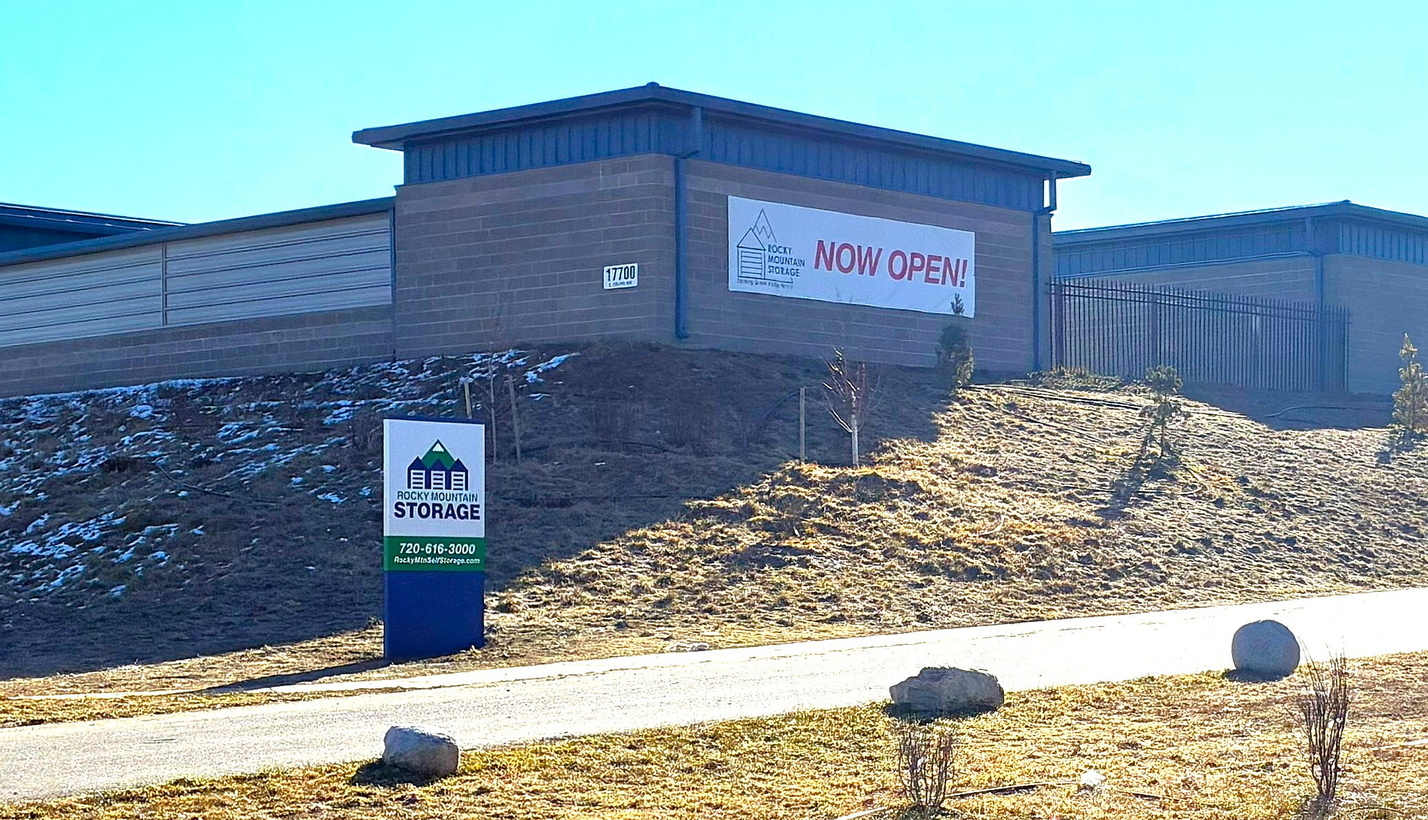
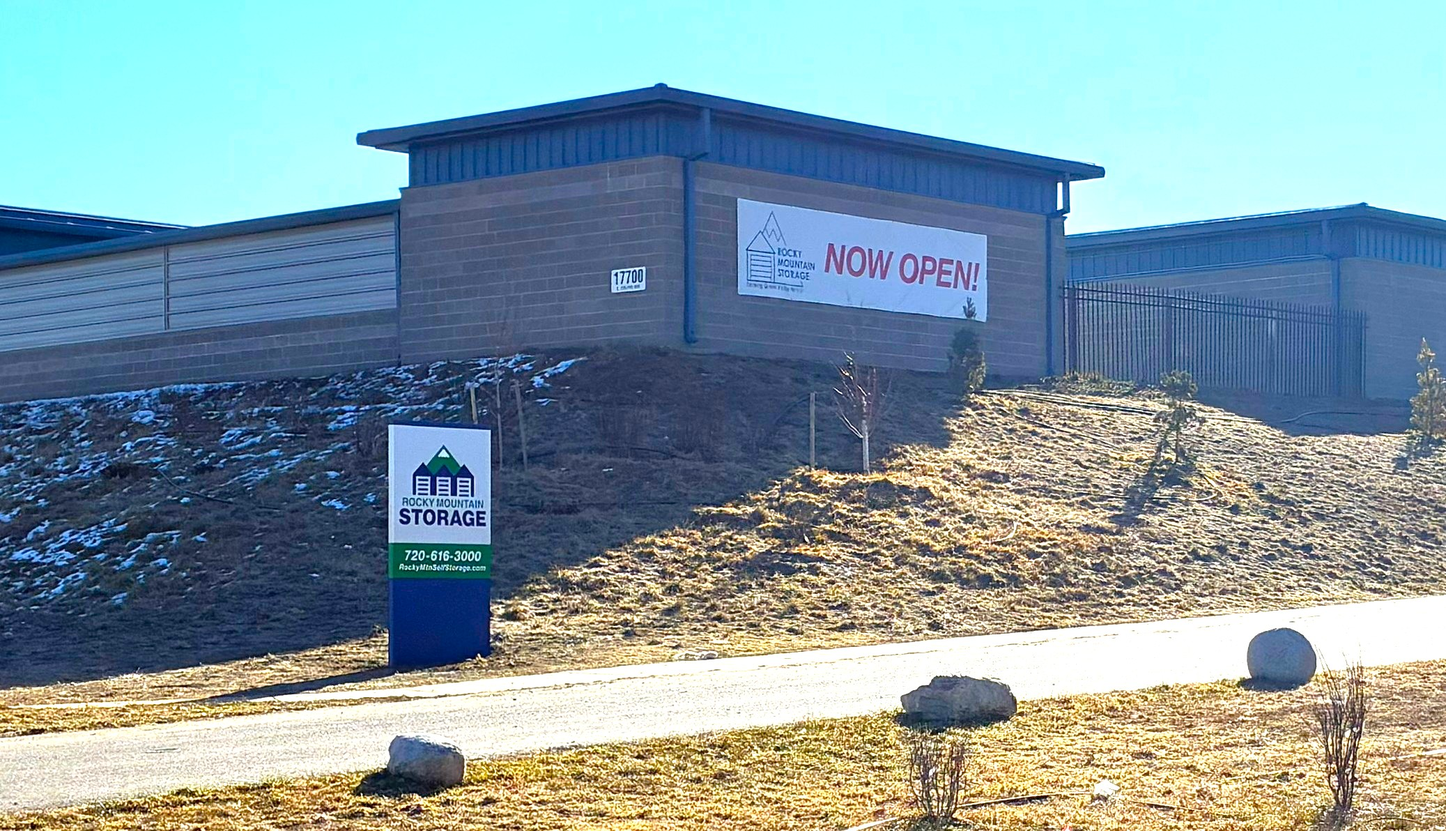
Updates

diff --git a/index.html b/index.html
@@ -136,7 +136,7 @@
         font-family: "Manrope", sans-serif;
         font-weight: 800;
         letter-spacing: -0.02em;
-        font-size: clamp(2rem, 4vw, 3rem);
+        font-size: clamp(1.75rem, 3.4vw, 2.5rem);
         line-height: 1.15;
         color: var(--navy);
         margin-bottom: 1.25rem;
@@ -145,18 +145,29 @@
         font-style: normal;
         color: var(--green);
       }
-      .hero-text p {
+      .hero-services {
+        list-style: disc;
+        padding-left: 1.2rem;
+        display: flex;
+        flex-direction: column;
+        gap: 0.5rem;
+        margin-bottom: 2rem;
         font-size: 1.05rem;
         color: var(--text-muted);
-        margin-bottom: 2rem;
-        max-width: 420px;
+      }
+      .hero-service-label {
+        font-weight: 600;
+        color: var(--text);
+      }
+      .hero-service-desc {
+        font-size: 1rem;
       }
       .hero-contact {
         display: flex;
         flex-wrap: wrap;
         gap: 1.25rem;
         margin-bottom: 1.75rem;
-        font-size: 0.98rem;
+        font-size: 1.05rem;
         font-weight: 500;
         color: var(--navy);
       }
@@ -659,13 +670,35 @@
     <!-- HERO -->
     <div class="hero-wrap">
       <div class="hero">
+        <div class="hero-img">
+          <img src="images/logo_big.png" alt="Rocky Mountain Storage" />
+        </div>
         <div class="hero-text">
           <div class="hero-eyebrow">Serving the Front Range</div>
-          <h1>Simple, secure storage — <em>right when you need it.</em></h1>
-          <p>
-            Month-to-month rentals, drive-up access, and a friendly team ready
-            to help you find the right fit.
-          </p>
+          <h1 class="hero-text">
+            Aurora's Home for<br />
+            <em>RV Parking & Self Storage</em>
+          </h1>
+          <ul class="hero-services">
+            <li>
+              <span class="hero-service-label">RV Parking</span> —
+              <span class="hero-service-desc"
+                >Secure outdoor spaces for RVs, trailers, and boats</span
+              >
+            </li>
+            <li>
+              <span class="hero-service-label">Self Storage</span> —
+              <span class="hero-service-desc"
+                >Month-to-month units with drive-up access</span
+              >
+            </li>
+            <li>
+              <span class="hero-service-label">U-Haul Rentals</span> —
+              <span class="hero-service-desc"
+                >Authorized U-Haul dealer — trucks and moving supplies</span
+              >
+            </li>
+          </ul>
           <div class="hero-contact">
             <span class="hero-contact-item">
               <svg viewBox="0 0 16 16" fill="none">
@@ -710,9 +743,6 @@
             >
             <a href="#contact" class="btn-secondary">Contact Us</a>
           </div>
-        </div>
-        <div class="hero-img">
-          <img src="images/logo_big.png" alt="Rocky Mountain Storage" />
         </div>
       </div>
     </div>
@@ -818,157 +848,36 @@
         <div class="gallery-grid">
           <div class="gallery-item">
             <img
-              src="images/SS Unit - Small.jpg"
+              src="images/RMSStreet.jpg"
               alt="Main entrance to Rocky Mountain Storage"
             />
-            <div class="gallery-caption">Main Entrance</div>
+            <div class="gallery-caption">Entrance</div>
           </div>
           <div class="gallery-item">
-            <img src="images/SS - Front Entrance.jpg" alt="Drive-up aisle" />
-            <div class="gallery-caption">Drive-Up Aisle</div>
+            <img src="images/RMSOffice.jpg" alt="Office" />
+            <div class="gallery-caption">Office</div>
           </div>
           <div class="gallery-item">
-            <svg class="placeholder-bg" viewBox="0 0 80 80" fill="none">
-              <path
-                d="M10 10 L40 5 L70 10 L70 70 L10 70 Z"
-                stroke="#1e3a6e"
-                stroke-width="1.5"
-              />
-              <line
-                x1="10"
-                y1="10"
-                x2="10"
-                y2="70"
-                stroke="#1e3a6e"
-                stroke-width="1.5"
-              />
-              <line
-                x1="70"
-                y1="10"
-                x2="70"
-                y2="70"
-                stroke="#1e3a6e"
-                stroke-width="1.5"
-              />
-              <line
-                x1="25"
-                y1="70"
-                x2="25"
-                y2="30"
-                stroke="#1e3a6e"
-                stroke-width="1.5"
-              />
-              <line
-                x1="55"
-                y1="70"
-                x2="55"
-                y2="30"
-                stroke="#1e3a6e"
-                stroke-width="1.5"
-              />
-            </svg>
-            <div class="gallery-caption">Indoor Corridor</div>
+            <img src="images/RV Storage.jpg" alt="RV parking" />
+            <div class="gallery-caption">RV parking</div>
           </div>
           <div class="gallery-item">
-            <svg class="placeholder-bg" viewBox="0 0 80 80" fill="none">
-              <rect
-                x="30"
-                y="10"
-                width="20"
-                height="40"
-                rx="2"
-                stroke="#1e3a6e"
-                stroke-width="1.5"
-              />
-              <line
-                x1="5"
-                y1="50"
-                x2="30"
-                y2="50"
-                stroke="#1e3a6e"
-                stroke-width="2"
-              />
-              <line
-                x1="50"
-                y1="50"
-                x2="75"
-                y2="50"
-                stroke="#1e3a6e"
-                stroke-width="2"
-              />
-              <circle
-                cx="40"
-                cy="30"
-                r="6"
-                stroke="#2e6b35"
-                stroke-width="1.5"
-              />
-              <path
-                d="M5 50 L5 70 L75 70 L75 50"
-                stroke="#1e3a6e"
-                stroke-width="1.5"
-              />
-            </svg>
-            <div class="gallery-caption">Gated Entry</div>
+            <img src="images/SSInside.jpg" alt="Self storage interior" />
+            <div class="gallery-caption">Self storage interior</div>
           </div>
           <div class="gallery-item">
-            <svg class="placeholder-bg" viewBox="0 0 80 80" fill="none">
-              <rect
-                x="10"
-                y="10"
-                width="60"
-                height="60"
-                rx="2"
-                stroke="#1e3a6e"
-                stroke-width="1.5"
-              />
-              <rect
-                x="20"
-                y="30"
-                width="18"
-                height="24"
-                rx="1"
-                stroke="#1e3a6e"
-                stroke-width="1.5"
-              />
-              <rect
-                x="42"
-                y="38"
-                width="18"
-                height="16"
-                rx="1"
-                stroke="#1e3a6e"
-                stroke-width="1.5"
-              />
-            </svg>
-            <div class="gallery-caption">Unit Interior</div>
+            <img
+              src="images/SSOutsideSm.jpg"
+              alt="Self storage exterior small"
+            />
+            <div class="gallery-caption">Self storage exterior small</div>
           </div>
           <div class="gallery-item">
-            <svg class="placeholder-bg" viewBox="0 0 80 80" fill="none">
-              <rect
-                x="10"
-                y="25"
-                width="60"
-                height="40"
-                rx="2"
-                stroke="#1e3a6e"
-                stroke-width="1.5"
-              />
-              <path
-                d="M10 25 L40 10 L70 25"
-                stroke="#2e6b35"
-                stroke-width="1.5"
-              />
-              <rect
-                x="30"
-                y="45"
-                width="20"
-                height="20"
-                stroke="#1e3a6e"
-                stroke-width="1.5"
-              />
-            </svg>
-            <div class="gallery-caption">Exterior View</div>
+            <img
+              src="images/SSOutsideLrg.jpg"
+              alt="Self storage exterior large"
+            />
+            <div class="gallery-caption">Self storage exterior large</div>
           </div>
         </div>
       </div>
@@ -1175,6 +1084,14 @@
               food, live animals, or illegal items. We only store recreational
               vehicles 2000 or newer. When in doubt, just ask — we're happy to
               clarify.
+            </div>
+          </details>
+          <details>
+            <summary>How do I cancel my storage?</summary>
+            <div class="faq-body">
+              Send us a written notice (email works great) with at least 2 days
+              notice. Be sure to clear everything from your unit, remove the
+              lock, and notify the office that you are out.
             </div>
           </details>
         </div>

diff --git a/README.md b/README.md
@@ -1,0 +1,4 @@
+# CPanel website
+
+https://cpanel.straightstreetdesign.com/login
+Credentials in bitwarden
